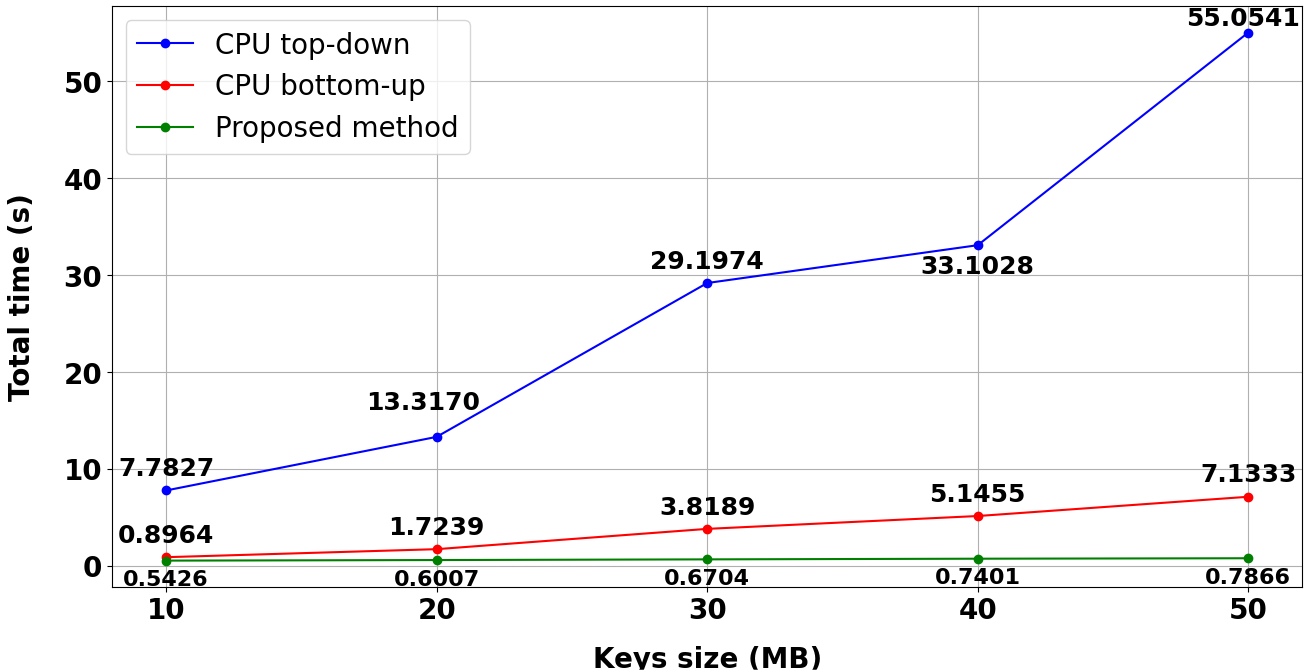
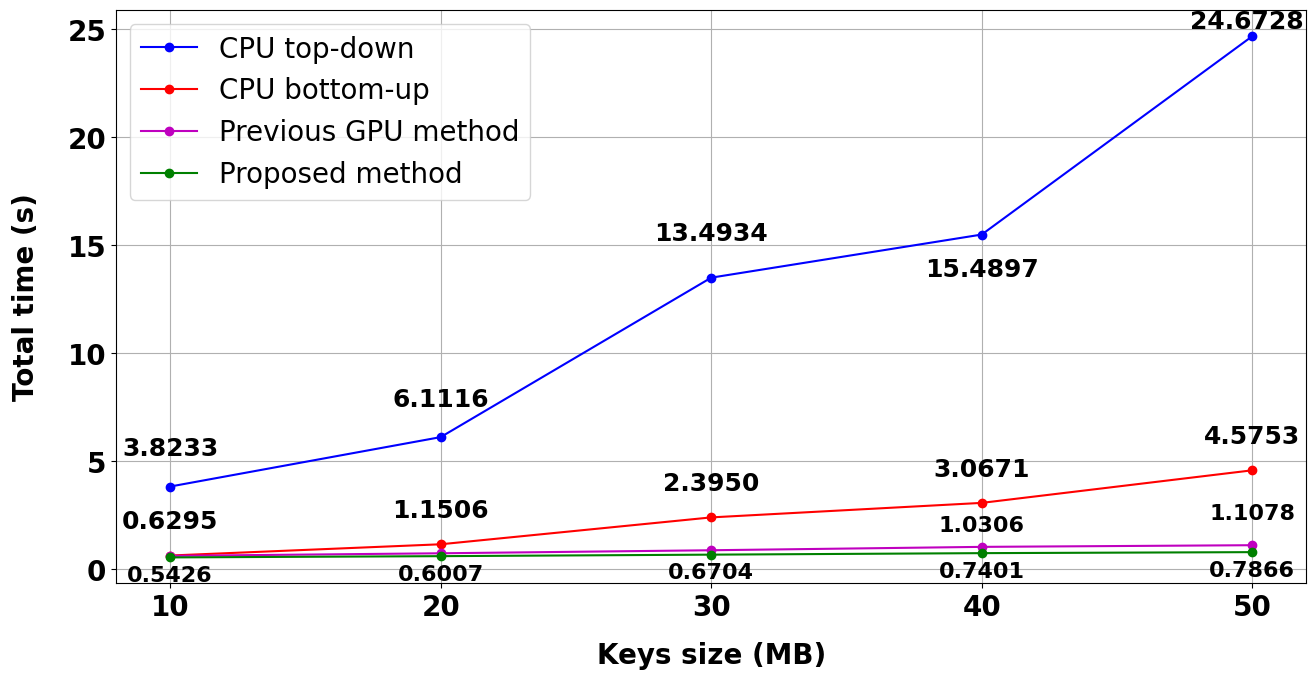
update experimental result and ablation study

diff --git a/README.md b/README.md
@@ -84,12 +84,35 @@ The B+-tree data structure plays a crucial role in data storage and retrieval. H
    - Maintains efficient performance even at 2000MB
    - CPU methods show exponential time increase
 
+## Ablation Study
+This section presents a comprehensive evaluation of the
+proposed solution across different GPU architectures including
+NVIDIA GeForce RTX 3060 GPU (3840 CUDA cores, 6GB
+VRam GDDR6), NVIDIA GeForce RTX 4050 GPU (2560
+CUDA cores, 6GB VRam GDDR6) and NVIDIA GeForce
+RTX 4060 GPU (3072 CUDA cores, 8GB VRam GDDR6).
+
+![Alt text](Images/10_50CompareGPU.pngt.png)
+![Alt text](Images/100_2000CompareGPU.png.pngt.png)
+
+## Appendix
+### Detaild Results
+COMPLETE EXPERIMENTAL DATA TABLE FROM 10MB TO 50MB.
+LIGHT YELLOW: THE AVERAGE VALUE OF SIX RUNS.
+LIGHT GREEN: THE TOTAL TIME OF THE FIVE GPU’S FACTOR.
+LIGHT ORANGE: THE STANDARD DEVIATION OF THE AVERAGE VALUE
+![Alt text](Images/Appendix1.jpg.png)
+
+COMPLETE EXPERIMENTAL DATA TABLE FROM 100MB TO 2000MB.
+LIGHT YELLOW: THE AVERAGE VALUE OF SIX RUNS.
+LIGHT GREEN: THE TOTAL TIME OF THE FIVE GPU’S FACTOR.
+LIGHT ORANGE: THE STANDARD DEVIATION OF THE AVERAGE VALUE
+![Alt text](Images/Appendix2.jpg.png)
 ## Requirements
 
 ### Hardware
 - CUDA-capable GPU
-- Minimum 8GB RAM
-- Multi-core CPU
+- Minimum 6GB RAM
 
 ### Software
 - CUDA Toolkit
@@ -138,7 +161,7 @@ python src/TopDownCPU.py
 
 ## Authors
 
-- Nguyen Minh Tri (chinjsu130205@gmail.com)
+- Nguyen Minh Tri (minhtringuyen130205@gmail.com)
 - Khuu Trong Quan (khuutrongquan220405@gmail.com)
 - Huynh Cong Viet Ngu* (nguhcv@fe.edu.vn)
 
